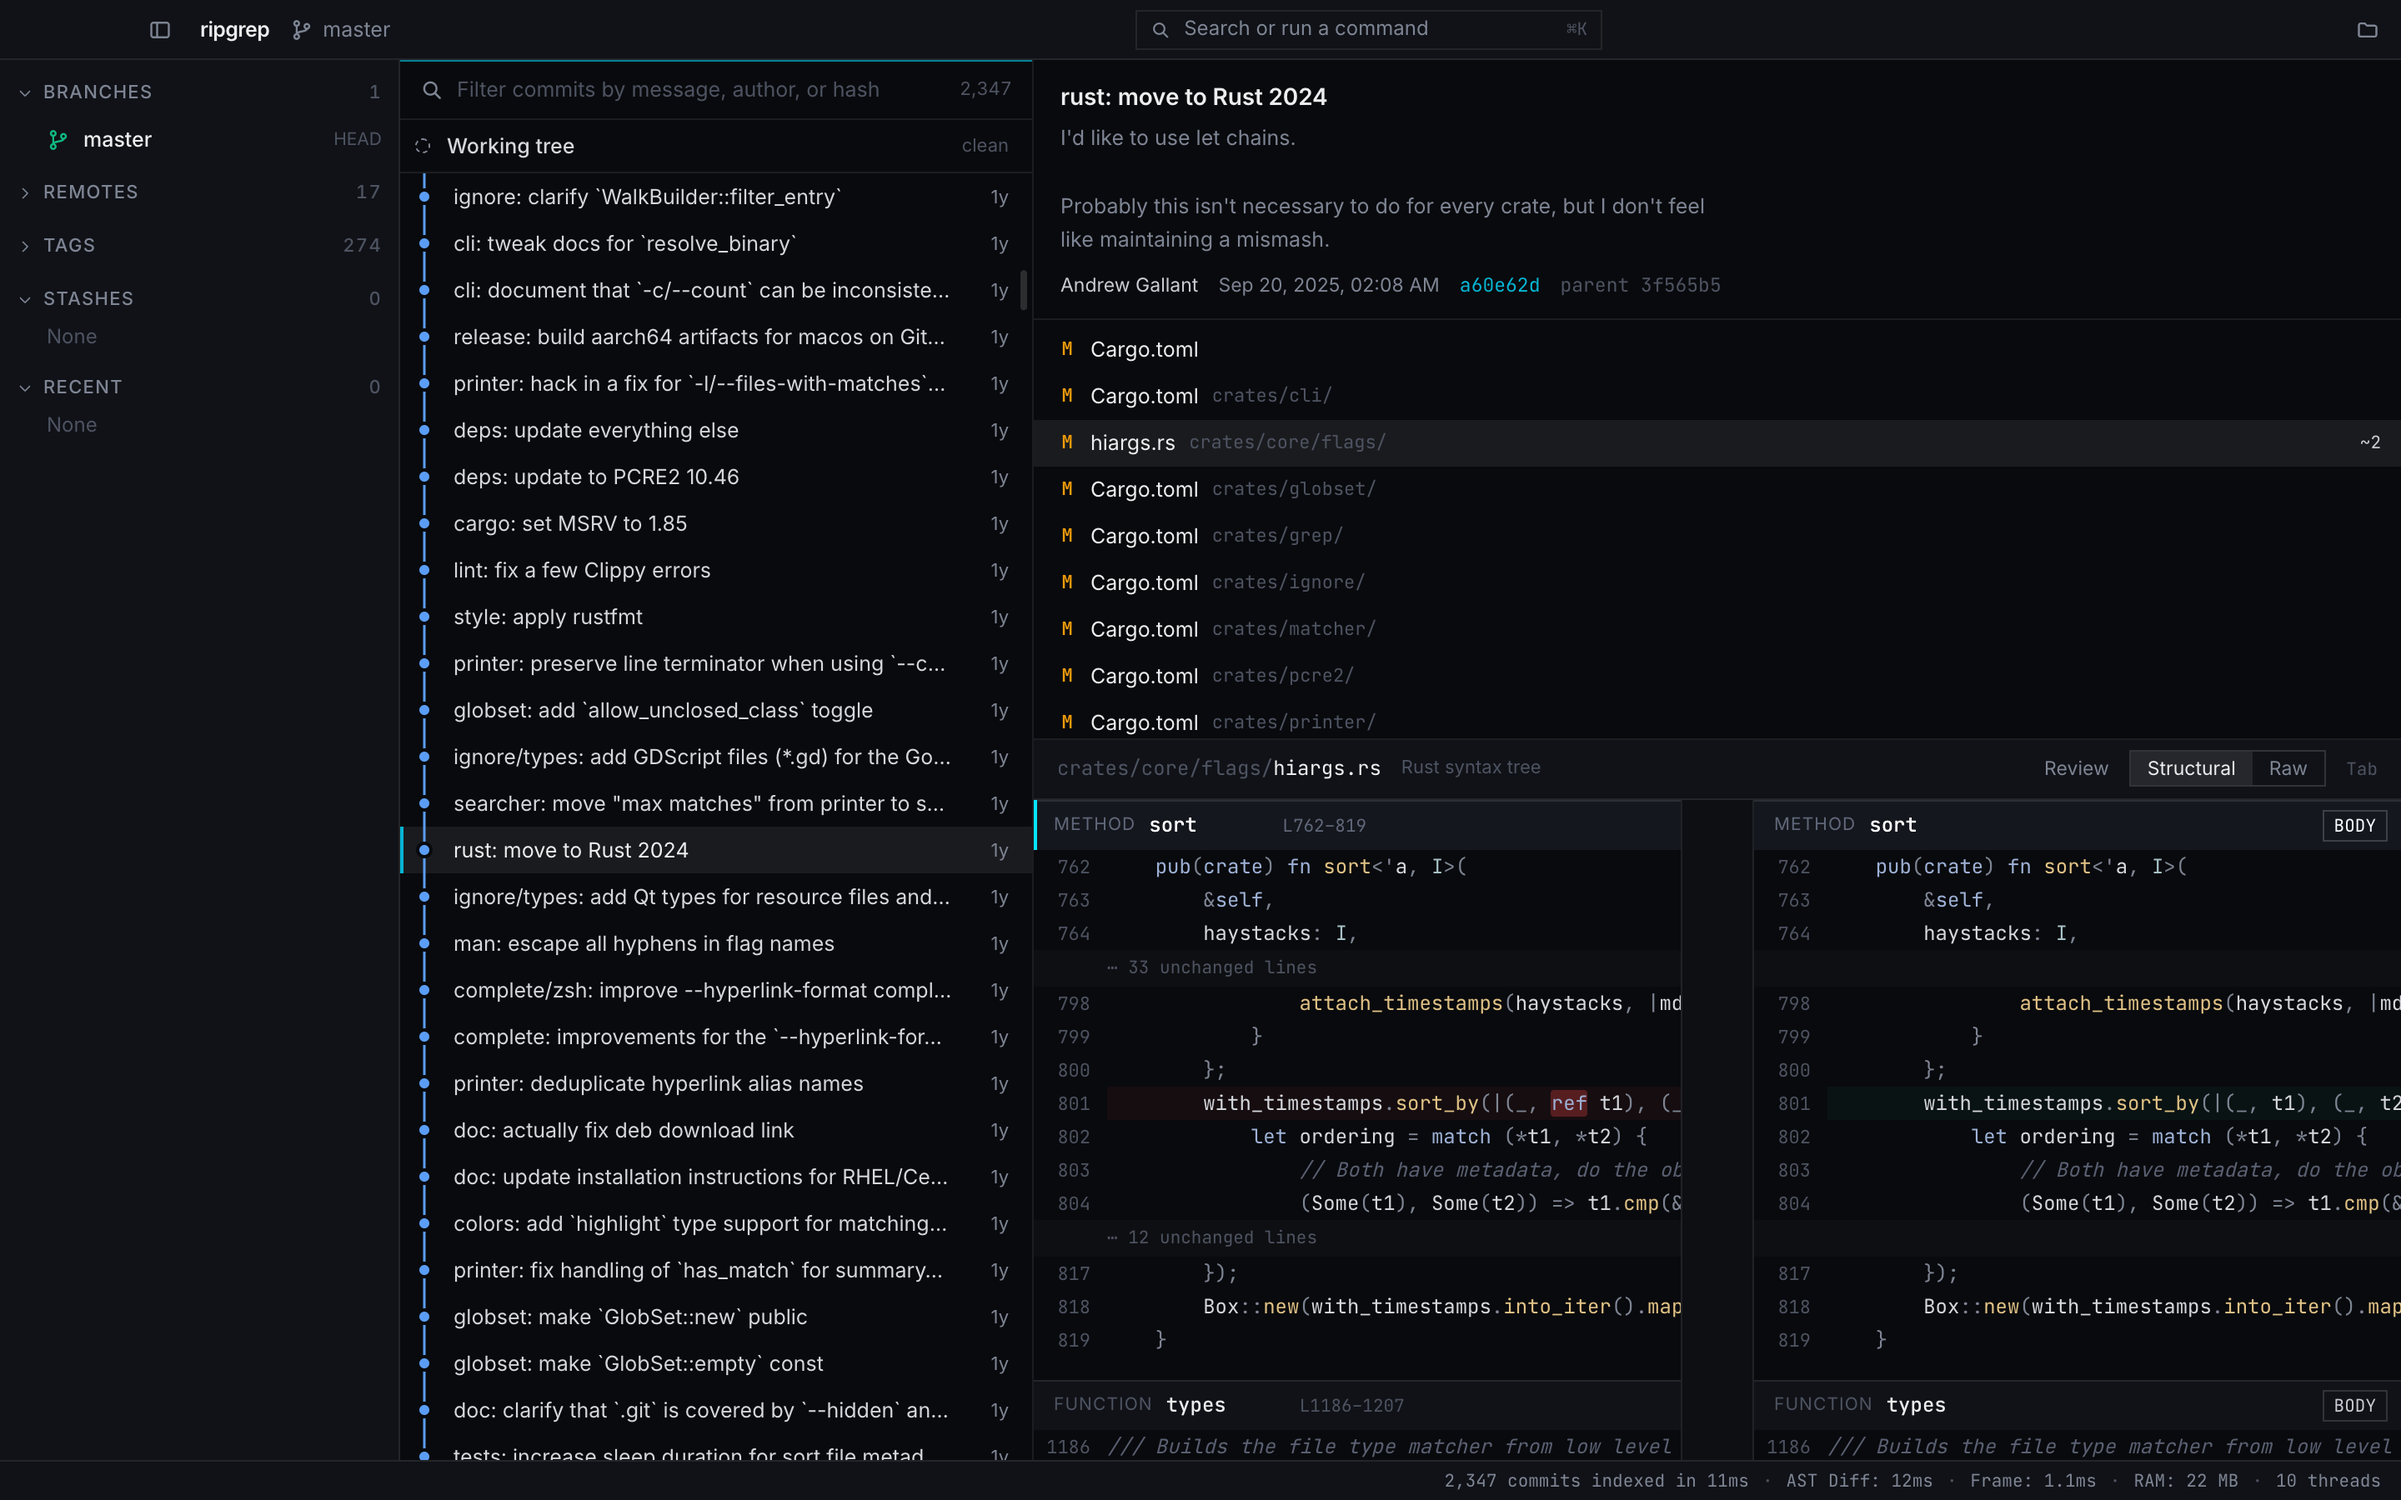
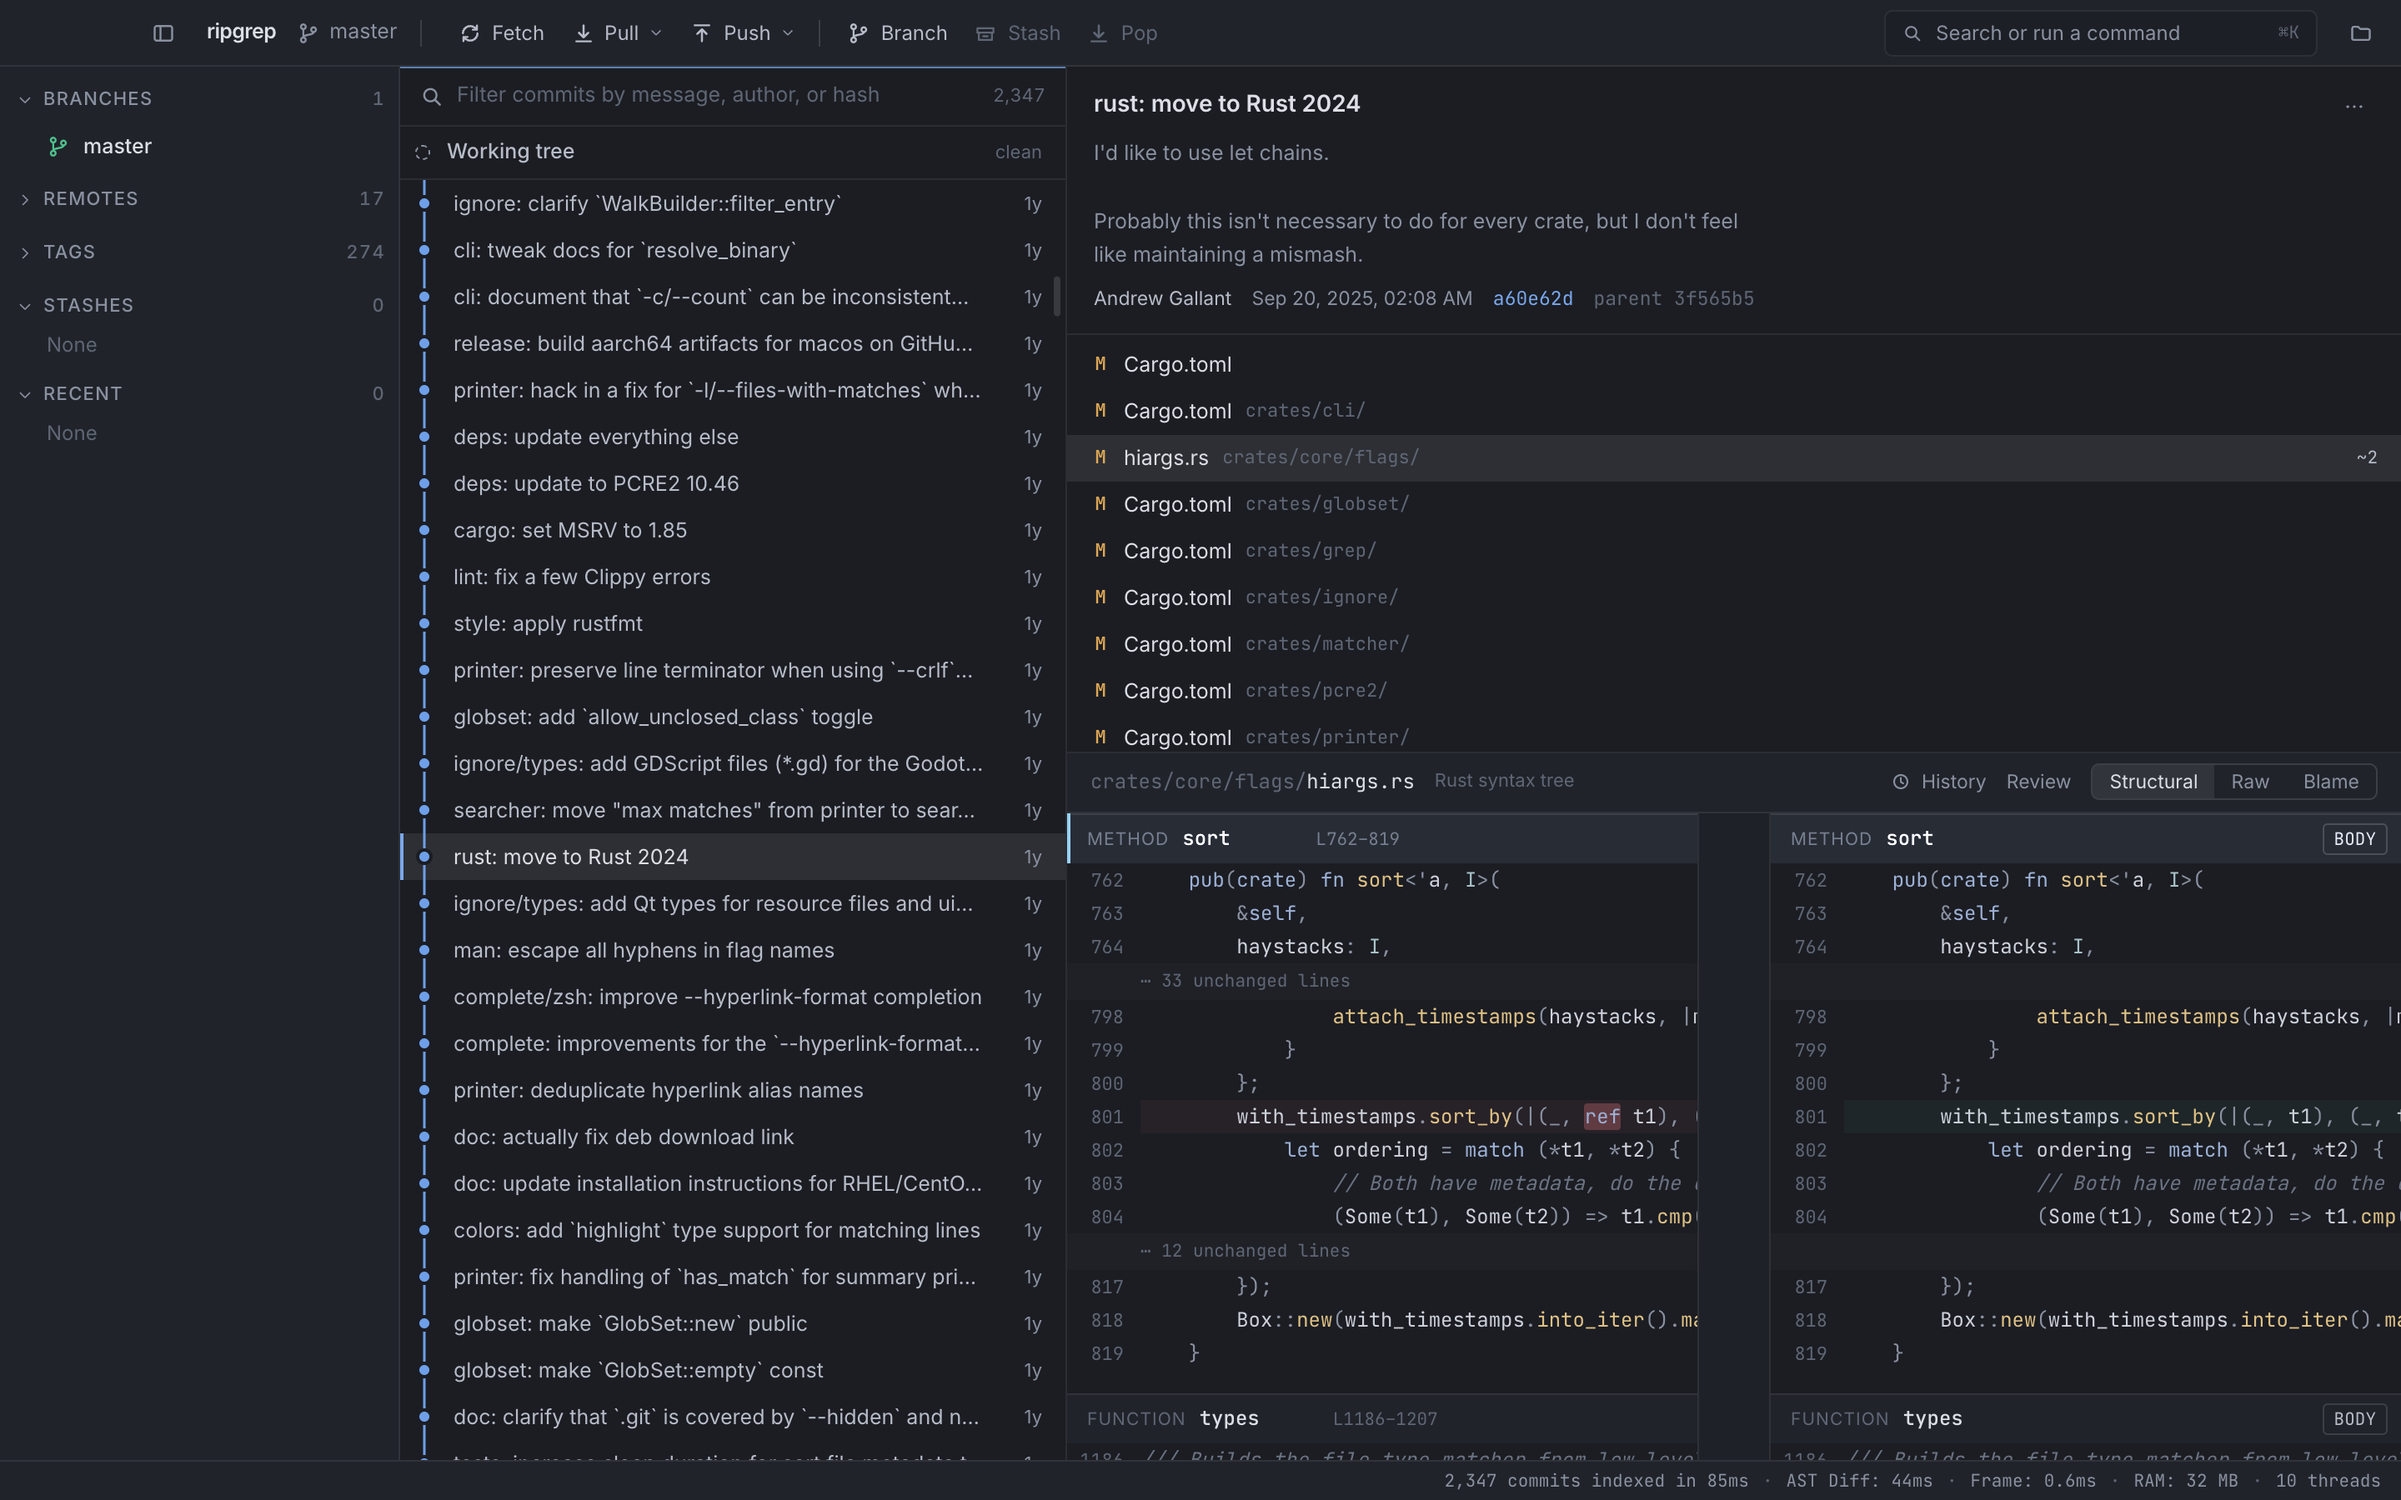
docs: describe repository operations, partial staging and blame

diff --git a/README.md b/README.md
@@ -13,17 +13,25 @@ The screenshot shows the working tree of the built-in demo repository. `is_expir
 - **Structural diff engine.** Functions, methods, types, and impl blocks are matched by normalized syntax-tree hash, then by name, then by token similarity. Each change is classified as moved, moved and edited, signature changed, body changed, added, or deleted. Whitespace and comment edits are not changes.
 - **Moves across files.** Matching runs over the whole changeset, so a function cut from `lexer.rs` and pasted into `parser.rs` is one move, not a deletion and an addition.
 - **Aligned side-by-side view.** A moved declaration is shown with its old and new text next to each other, however far it travelled, with only the changed tokens highlighted. A ribbon connects the block to a marker at its former position.
-- **Function-level staging.** Stage or unstage one declaration, including a moved one, without touching the rest of the file.
+- **Staging at four granularities.** Stage or unstage a file, one declaration (including a moved one), one hunk, or hand-picked lines. Hunks and lines can also be discarded from the working tree.
+- **Everyday Git.** Fetch, pull (fast-forward, rebase, or merge), push and leased force push, merge, rebase, cherry-pick, revert, reset, amend, and branch, tag, and stash management, from the toolbar, context menus, or the palette.
+- **Conflicts without leaving the app.** A merge, rebase, cherry-pick, or revert that stops on a conflict stays open: resolve each file by taking one side or by editing it, then continue, skip, or abort.
+- **Blame and file history.** `B` shows the commit that last touched each line; History narrows the graph to the commits that changed the open file.
 - **Commit graph on a canvas.** The history streams in as binary chunks and is painted on a single virtualized canvas, so a repository with 100,000 commits is scrollable while it is still loading.
 - **Command palette and keyboard map.** `Cmd+K` searches commits, branches, tags, changed files, and actions.
 - **Commit drafting and risk audit that work offline.** Built-in rules draft a Conventional Commit message from the structural summary and flag removed error paths, new aborts, flipped comparison boundaries, and breaking signature changes. A language model can be plugged in to add its own findings; it is never required.
 - **Line diff fallback.** Formats without a grammar (Markdown, JSON, YAML, plain text) get a Myers line diff with word-level highlights. `Tab` switches any file to the raw unified view.
+- **Stays current.** Commits, checkouts, and edits made in a terminal or editor are picked up when the window regains focus.
 
 Grammars are bundled for Rust, TypeScript, TSX, JavaScript, Python, and Go.
 
 ![A real commit from the ripgrep repository](docs/real-repository.png)
 
 A commit from the ripgrep history: a 58-line method whose only change is one removed `ref` keyword.
+
+![Picking individual lines in the raw view](docs/line-staging.png)
+
+The raw view of the same demo file, with four added lines picked for staging out of a larger hunk.
 
 ## Getting started
 
@@ -61,7 +69,7 @@ The bundle is written to `src-tauri/target/release/bundle/`.
 
 ```bash
 cd src-tauri
-cargo test          # 35 tests; needs git on PATH
+cargo test          # 58 tests; needs git on PATH
 cd .. && npx tsc --noEmit
 ```
 
@@ -72,14 +80,18 @@ cd .. && npx tsc --noEmit
 | `Cmd+K` | Command palette |
 | `Cmd+O` | Open a repository |
 | `Cmd+B` | Toggle the sidebar |
-| `J` / `K` or arrows | Next / previous commit, or structural change when the inspector has focus |
+| `J` / `K` or arrows | Next / previous commit; with the inspector focused, next / previous declaration or hunk |
 | `H` / `L` or arrows | Focus the graph / the inspector |
-| `Space` | Stage or unstage the active declaration, or the open file |
+| `Space` | Stage or unstage the active declaration (structural view), the active hunk (raw view), or the open file |
 | `Tab` | Switch between the structural diff and the raw unified diff |
+| `B` | Toggle the blame view |
 | `Cmd+Shift+R` | Run the risk audit on the current changeset |
 | `Cmd+Enter` | Commit, from the message box |
 | `/` | Filter commits |
 | `C` | Jump to the commit message box |
+| `Esc` | Close a menu or dialog, or leave the file history filter |
+
+Commits, branches, tags, stashes, and files have context menus. Double-clicking a branch checks it out, and double-clicking a stash pops it. In the raw view, click a line number to pick that line, Shift-click to extend, and double-click to pick the whole run of changes.
 
 `Ctrl` replaces `Cmd` on Windows and Linux.
 
@@ -130,14 +142,21 @@ src-tauri/src/
                wire.rs       binary chunk encoding
                search.rs     row index for commit search
                status.rs     HEAD vs index vs working tree
-               index.rs      staging, commit, checkout, cherry-pick (git CLI)
+               index.rs      staging, discard, commit, amend, checkout (git CLI)
+               sync.rs       fetch, pull, push, upstream tracking
+               operation.rs  merge, rebase, cherry-pick, revert, reset, conflicts
+               branch.rs     branches and tags
+               stash.rs      stash save, apply, pop, drop
+               blame.rs      line blame and per-file history
   ast_diff/    parser.rs     tree-sitter walk: tokens and declarations
                language.rs   per-grammar declaration rules
                matcher.rs    pairing passes and classification
                moves.rs      which pairs count as moved
-               lines.rs      Myers alignment and token-level highlights
+               lines.rs      Myers line alignment
+               inline.rs     token-level highlights inside a line
                render.rs     display blocks for one file
                stage.rs      rewrite one declaration inside a file
+               splice.rs     apply or revert selected lines of a diff
   ai/          summary.rs    structural summary for a model
                heuristics.rs offline risk rules
                drafting.rs   offline commit message
@@ -146,10 +165,13 @@ src-tauri/src/
   commands.rs  commands/     Tauri IPC surface
 src/
   components/graph/      canvas renderer, edge routing, filter bar
-  components/diff/       structural and raw diff views, move ribbons
+  components/diff/       structural, raw, and blame views, move ribbons
   components/palette/    command palette and provider settings
-  components/inspector/  file list, toolbar, commit box
-  store/                 Zustand stores
+  components/inspector/  file list, toolbar, commit box, conflict banner
+  components/layout/     title bar with sync controls, sidebar, status bar
+  components/menus/      context menus for commits, refs, stashes, files
+  store/                 Zustand stores and staging actions
+  lib/actions.ts         repository commands with refresh and confirmation
   lib/graphModel.ts      zero-copy views over the binary chunks
 ```
 
@@ -193,7 +215,17 @@ Staging a declaration diffs the index version of the file against the working tr
 
 One test stages every declaration of a file one at a time and asserts that the index ends up byte-identical to the working tree.
 
-Reads go through gix in-process. Mutations (staging, commit, checkout, cherry-pick) are delegated to the `git` binary so hooks, signing, and index extensions behave exactly as they do on the command line.
+### Hunk and line staging
+
+The raw view compares lines exactly, as `git diff` does, and every changed line is addressable by the number in its gutter. Staging a selection rebuilds the file from that same alignment: unchanged lines are copied, selected removals are dropped, selected additions are kept, and everything else stays as it is in the index. Unstaging and discarding run the same walk in the other direction. Line endings and a missing final newline are preserved byte for byte, and a selection that no longer matches the file is rejected instead of being applied to the wrong lines.
+
+### Repository operations
+
+Reads go through gix in-process. Everything that changes the repository or talks to a remote (staging, commit, checkout, fetch, pull, push, merge, rebase, stash) is delegated to the `git` binary, so hooks, signing, credential helpers, and SSH configuration behave exactly as they do on the command line. Git is run without a terminal or an editor: a command that would prompt fails with its own message instead of hanging.
+
+After each command the refs are read again, and the graph is only streamed again if a ref or `HEAD` actually moved. A new graph replaces the old one when its first chunk arrives, so the canvas never goes blank. Force pushes always use `--force-with-lease`.
+
+The demo repository ships with its own remote, a bare repository inside its `.git` directory, so fetch, pull, and push can be tried offline.
 
 ## Benchmarks
 
@@ -230,9 +262,12 @@ With the 150,000-commit repository loaded, painting a frame of the graph takes 0
 
 ## Limitations
 
-- Fetch, pull, push, rebase, and merge are not implemented. Stashes are listed but cannot be applied.
-- Staging works per file and per declaration, not per line hunk. An in-place edit to a class or impl header cannot be staged separately from its members.
-- A cherry-pick that conflicts is aborted and reported rather than left for manual resolution.
+- There is no interactive rebase (reorder, squash, reword), no submodule or worktree management, and no way to add or edit remotes.
+- Conflicts are resolved by taking one side of a file or by editing it elsewhere; there is no three-way merge editor.
+- Remote commands run to completion without a progress bar or a cancel button, and cannot answer a password or passphrase prompt. Authentication has to work non-interactively, through a credential helper or an SSH agent.
+- Hunks and lines are staged from the raw view only. In the structural view, an in-place edit to a class or impl header cannot be staged separately from its members.
+- A stash is shown as the diff of its tracked files; untracked files it contains are restored but not listed.
+- Blame in a partial clone downloads the blobs it needs on demand, exactly as `git blame` does, and can be slow.
 - SHA-256 repositories are not supported.
 - Files that are binary or larger than 1 MB are listed but not diffed, and a changeset is analyzed up to its first 400 files.
 - The walk orders by commit time. A commit whose parent carries a later timestamp is still drawn correctly, but its edge runs upward.
